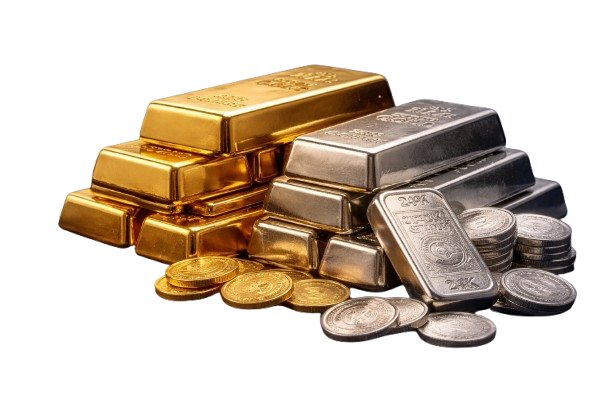
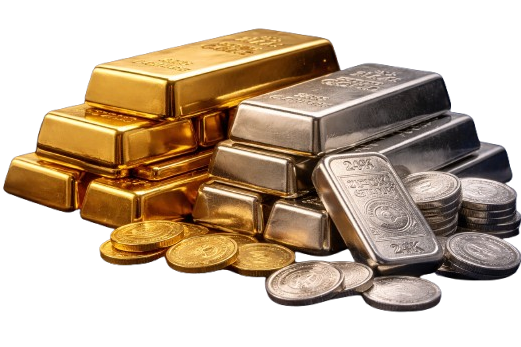
added all

diff --git a/src/components/Navbar.tsx b/src/components/Navbar.tsx
@@ -3,15 +3,14 @@
 import { useState, useEffect } from "react";
 import { motion, AnimatePresence } from "framer-motion";
 import { Menu, X } from "lucide-react";
+import logo from "@/assets/logo.png";
 
 const Navbar = () => {
   const [isScrolled, setIsScrolled] = useState(false);
   const [isMobileMenuOpen, setIsMobileMenuOpen] = useState(false);
 
   useEffect(() => {
-    const handleScroll = () => {
-      setIsScrolled(window.scrollY > 50);
-    };
+    const handleScroll = () => setIsScrolled(window.scrollY > 50);
     window.addEventListener("scroll", handleScroll);
     return () => window.removeEventListener("scroll", handleScroll);
   }, []);
@@ -35,18 +34,21 @@ const Navbar = () => {
       }`}
     >
       <div className="container mx-auto px-6 lg:px-12">
-        <div className="flex items-center justify-between h-20">
+        <div className="flex items-center justify-between h-28">
+          {" "}
+          {/* taller navbar for big logo */}
           {/* Logo */}
-          <a href="#" className="flex items-center gap-2">
-            <div className="w-8 h-8 rounded-full bg-gradient-to-br from-gold-400 to-gold-600 flex items-center justify-center">
-              <span className="text-white font-serif font-bold text-sm">J</span>
+          <a href="#" className="flex items-center">
+            <div className="w-24 h-24 md:w-28 md:h-28 relative">
+              {" "}
+              {/* big square box */}
+              <img
+                src={logo}
+                alt="JustGold & Silver Logo"
+                className="w-full h-full object-contain"
+              />
             </div>
-            <span className="font-serif text-xl font-semibold">
-              Just
-              <span className="text-gradient-gold">Gold</span>
-            </span>
           </a>
-
           {/* Desktop Navigation */}
           <div className="hidden md:flex items-center gap-10">
             {navLinks.map((link) => (
@@ -63,8 +65,7 @@ const Navbar = () => {
               </a>
             ))}
           </div>
-
-          {/* CTA Buttons */}
+          {/* Desktop CTA Buttons */}
           <div className="hidden md:flex items-center gap-4">
             <a
               href="#"
@@ -83,7 +84,6 @@ const Navbar = () => {
               Get Started
             </a>
           </div>
-
           {/* Mobile Menu Button */}
           <button
             onClick={() => setIsMobileMenuOpen(!isMobileMenuOpen)}
@@ -91,7 +91,7 @@ const Navbar = () => {
               isScrolled ? "text-navy-800" : "text-navy-400"
             }`}
           >
-            {isMobileMenuOpen ? <X size={24} /> : <Menu size={24} />}
+            {isMobileMenuOpen ? <X size={28} /> : <Menu size={28} />}
           </button>
         </div>
       </div>
@@ -110,8 +110,8 @@ const Navbar = () => {
                 <a
                   key={link.label}
                   href={link.href}
-                  className="block text-navy-800 hover:text-gold-600 py-2 transition-colors"
                   onClick={() => setIsMobileMenuOpen(false)}
+                  className="block text-navy-800 hover:text-gold-600 py-2 transition-colors"
                 >
                   {link.label}
                 </a>

diff --git a/src/components/Footer.tsx b/src/components/Footer.tsx
@@ -1,4 +1,5 @@
 import { motion } from "framer-motion";
+import logo from "@/assets/logo.png";
 
 const Footer = () => {
   const footerLinks = {
@@ -35,35 +36,20 @@ const Footer = () => {
         <div className="grid md:grid-cols-2 lg:grid-cols-6 gap-12">
           {/* Brand Column */}
           <div className="lg:col-span-2">
-            <a href="#" className="flex items-center gap-2 mb-6">
-              <div className="w-10 h-10 rounded-full bg-gradient-to-br from-gold-400 via-silver-300 to-gold-600 flex items-center justify-center">
-                <span className="text-white font-serif font-bold">J</span>
+            <a href="#" className="flex items-center gap-3 mb-6">
+              {/* Logo Image */}
+              <div className="w-32 h-32 md:w-52 md:h-52 relative">
+                <img
+                  src={logo} // import your logo at the top: import logo from "@/assets/logo.png";
+                  alt="JustGold & Silver Logo"
+                  className="w-full h-full object-contain"
+                />
               </div>
-              <span className="font-serif text-2xl font-semibold">
-                Just<span className="text-gold-400">Gold</span> &{" "}
-                <span className="text-silver-300">Silver</span>
-              </span>
             </a>
             <p className="text-navy-300 mb-6 leading-relaxed max-w-xs">
               The trusted platform for digital gold and silver savings in the
               UAE. Real precious metals, real ownership, real security.
             </p>
-            <div className="flex gap-4">
-              {/* Social Icons */}
-              {["twitter", "linkedin", "instagram"].map((social) => (
-                <a
-                  key={social}
-                  href="#"
-                  className="w-10 h-10 rounded-full border border-navy-700 flex items-center justify-center hover:border-gold-500 hover:bg-gold-500/10 transition-colors"
-                >
-                  <span className="sr-only">{social}</span>
-                  <div
-                    className="w-4 h-4 bg-navy-400"
-                    style={{ maskImage: `url(/icons/${social}.svg)` }}
-                  />
-                </a>
-              ))}
-            </div>
           </div>
 
           {/* Link Columns */}

diff --git a/src/components/HeroSection.tsx b/src/components/HeroSection.tsx
@@ -43,7 +43,7 @@ export default function HeroSection() {
   return (
     <section
       ref={ref}
-      className="relative min-h-screen overflow-hidden bg-navy-900"
+      className="relative min-h-screen overflow-hidden bg-navy-900 pt-12"
     >
       {/* -------- BACKGROUND -------- */}
       <div className="absolute inset-0 bg-gradient-to-b from-navy-950 via-navy-900 to-navy-950" />
@@ -116,7 +116,7 @@ export default function HeroSection() {
           {/* ---------- RIGHT IMAGE ---------- */}
           <motion.div
             style={{ y: imageParallaxY, scale: imageScale }}
-            className="order-1 lg:order-2 relative flex justify-center lg:justify-end"
+            className="relative flex justify-center" // centered horizontally
           >
             {/* GOLD + SILVER AMBIENT GLOW */}
             <motion.div
@@ -135,18 +135,18 @@ export default function HeroSection() {
               animate={{
                 opacity: 1,
                 scale: 1,
-                y: [0, -20, 0], // increased Y displacement
+                y: [0, -20, 0], // floating effect
               }}
               transition={{
                 opacity: { duration: 0.6, ease: "easeOut" },
                 scale: { duration: 0.6, ease: "easeOut" },
                 y: {
-                  duration: 1.5, // faster movement
+                  duration: 1.5,
                   repeat: Infinity,
                   ease: "easeInOut",
                 },
               }}
-              className="relative z-10 max-w-lg xl:max-w-2xl 
+              className="relative z-10 max-w-xs xl:max-w-2xl 
       drop-shadow-[0_40px_80px_rgba(0,0,0,0.65)]"
             />
           </motion.div>
